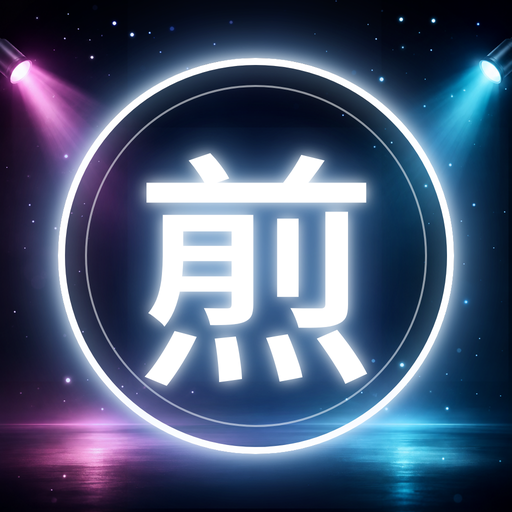
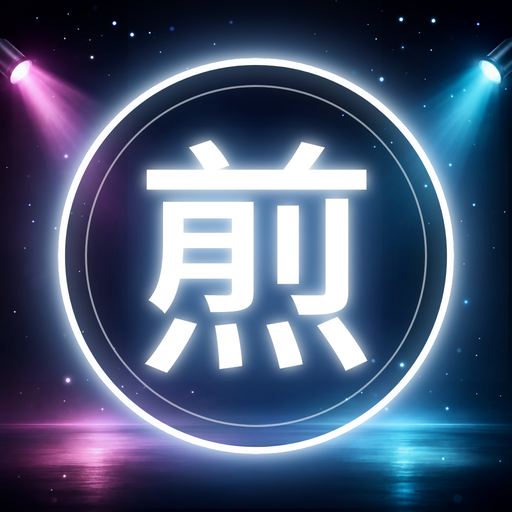
修正 PWA 圖示：「煎」字對齊光圈正中央 (#20)
* Replace hero background with poster image (split layout)

Claude-Session: https://claude.ai/code/session_01VxfNUytmmd1EhzuyLXzhcj

* Add hero crowd animation (flowing warm light lines with walking silhouettes)

Claude-Session: https://claude.ai/code/session_01VxfNUytmmd1EhzuyLXzhcj

* Fit hero to first screen on desktop so crowd animation is visible on load

Claude-Session: https://claude.ai/code/session_01VxfNUytmmd1EhzuyLXzhcj

* WIP: 3D crowd scene with 2D fallback (untested, not for merge yet)

Claude-Session: https://claude.ai/code/session_01VxfNUytmmd1EhzuyLXzhcj

* Finish 3D crowd scene: backlit silhouettes with depth fade, shop on the right, 2D fallback

Claude-Session: https://claude.ai/code/session_01VxfNUytmmd1EhzuyLXzhcj

* Add PWA: manifest, service worker (offline), glowing potsticker icons

Claude-Session: https://claude.ai/code/session_01VxfNUytmmd1EhzuyLXzhcj

* Add Google Sheets order integration (Apps Script backend + checkout wiring; off until URL is set)

Claude-Session: https://claude.ai/code/session_01VxfNUytmmd1EhzuyLXzhcj

* Enable Google Sheets orders: set ORDER_API_URL; sync setup() fix (check product-id column, not getLastRow)

Claude-Session: https://claude.ai/code/session_01VxfNUytmmd1EhzuyLXzhcj

* Sheet layout: fixed column widths and frozen order-ID column in setup()

Claude-Session: https://claude.ai/code/session_01VxfNUytmmd1EhzuyLXzhcj

* Replace menu/gift photos and PWA icons with generated images; bump SW cache
[…]

Changed region(s): [[0.25, 0.25, 0.75, 0.7812]]

diff --git a/sw.js b/sw.js
@@ -1,6 +1,6 @@
 // 一煎鍾情 Service Worker：基本離線支援
 // 修改快取內容時，請更換 VERSION，舊快取會在啟用時自動清除。
-const VERSION = 'yijiao-v11';
+const VERSION = 'yijiao-v12';
 const CORE = [
   './',
   './index.html',
